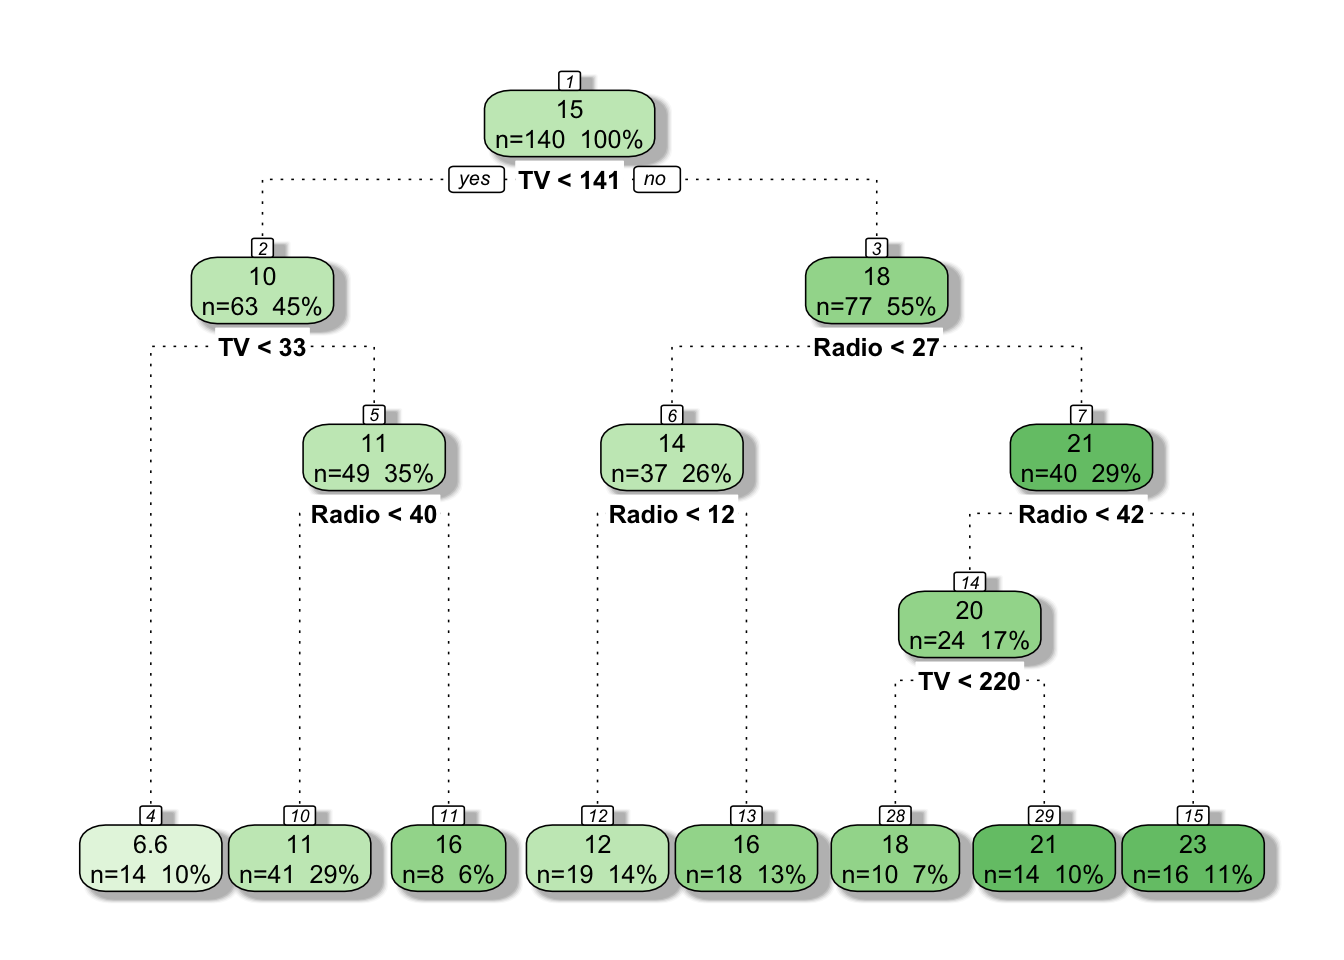
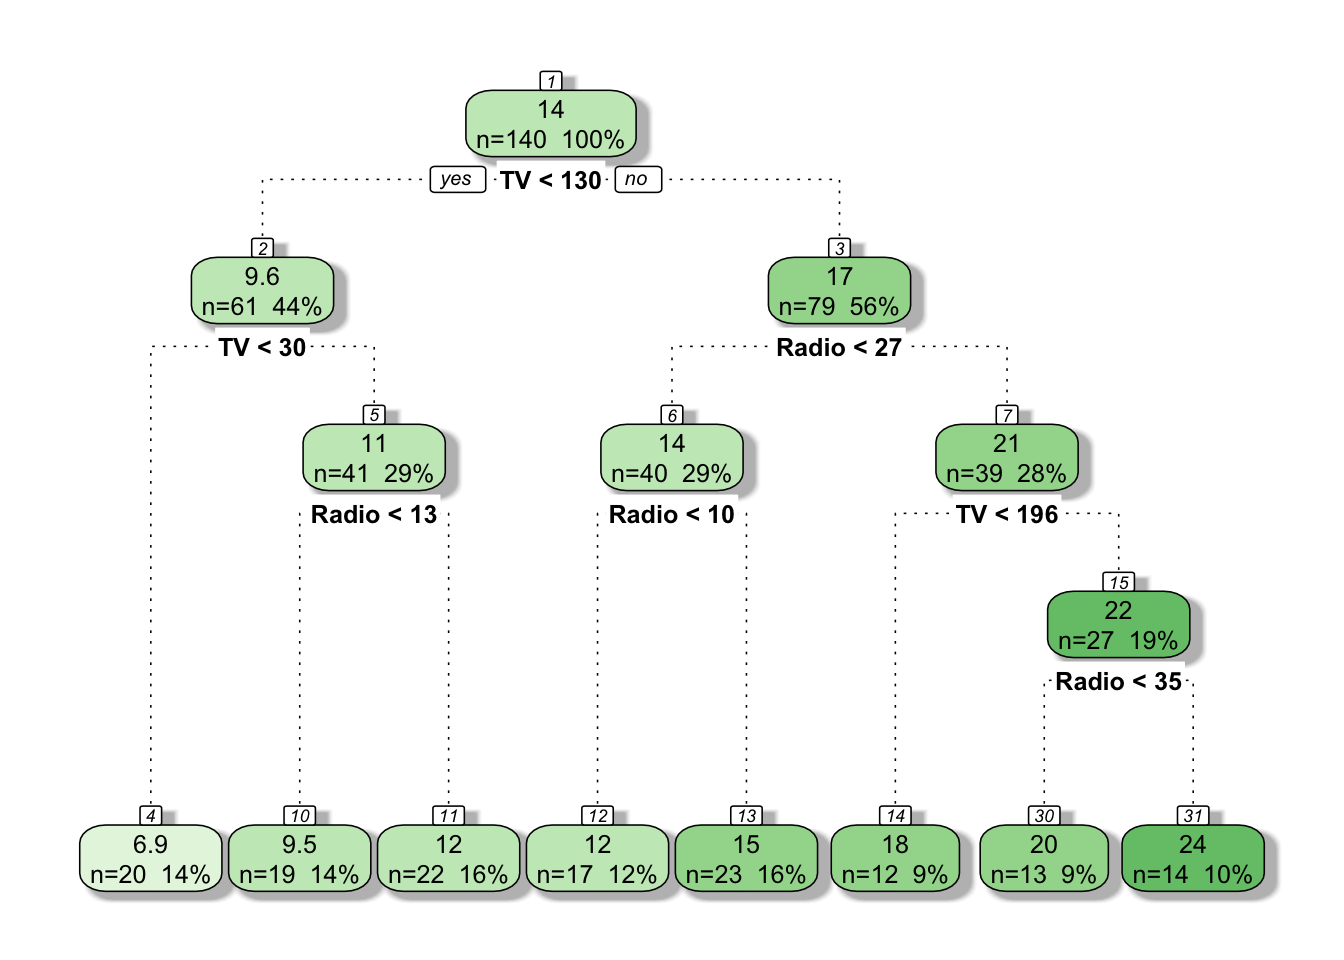
update installation

diff --git a/docs/install.html b/docs/install.html
@@ -348,6 +348,14 @@ $(document).ready(function () {
 </div>
 
 
+<div id="caution-before-you-start-the-following-steps-please-make-sure-you-have-already-installed" class="section level3">
+<h3><strong>Caution</strong>: Before you start the following steps, please make sure you have already installed</h3>
+<ul>
+<li><a href="http://www.oracle.com/technetwork/java/javase/downloads/index-jsp-138363.html">Java JDK</a></li>
+<li><a href="https://ipython.org/install.html">Ipython and python</a></li>
+<li>If you use this method to install the Spark, you can skip the <a href="pyspark-on-jupyter.html">Spark on Jupyter section</a></li>
+</ul>
+</div>
 <div id="download-apache-spark-from-the-official-website" class="section level3">
 <h3>1. Download Apache Spark from the official website</h3>
 <p>Weblink: <a href="http://spark.apache.org/downloads.html">Download Apache Spark™</a></p>
@@ -381,8 +389,23 @@ findspark.init()</code></pre>
 </div>
 <div id="note" class="section level3">
 <h3>Note:</h3>
-<p>This will also help you to set up the <code>ipython notebook</code> or <code>Jupyter</code>. You may run the following code in terminal to double check it:</p>
-<pre class="python"><code>ipython notebook</code></pre>
+<ul>
+<li>This will also help you to set up the <code>ipython notebook</code> or <code>Jupyter</code>. You may run the following code in terminal to double check it:</li>
+</ul>
+<pre class="python"><code>jupyter notebook</code></pre>
+<ul>
+<li><p>If you PySpark still doesn’t work, you need to check your <code>.profile</code> or <code>bash_profile</code> and add the following path to it</p>
+<ul>
+<li>check <code>.profile</code> or <code>bash_profile</code> at terminal</li>
+<li>add the path to your <code>.profile</code> or <code>bash_profile</code></li>
+</ul></li>
+</ul>
+<pre class="bash"><code>vim ~/.profile</code></pre>
+<pre class="bash"><code># Added for Pyspark
+export SPARK_HOME=YOUR_PATH/apache-spark/libexec
+export PATH=$PATH:$SPARK_HOME/bin:$SPARK_HOME/sbin
+export PYSPARK_DRIVER_PYTHON=&quot;jupyter&quot;
+export PYSPARK_DRIVER_PYTHON_OPTS=&quot;notebook&quot;</code></pre>
 </div>
 
 <center>Copyright &copy; 2017 Ming Chen  & Wenqiang Feng. All rights reserved.</center>

diff --git a/docs/dttreeR.html b/docs/dttreeR.html
@@ -556,7 +556,7 @@ test  = splited$test</code></pre>
 </ul>
 <pre class="r"><code>RMSE &lt;- sqrt(mean((test$Sales-Prediction )^2))
 RMSE</code></pre>
-<pre><code>## [1] 1.931328</code></pre>
+<pre><code>## [1] 1.77065</code></pre>
 </div>
 
 <center>Copyright &copy; 2017 Ming Chen  & Wenqiang Feng. All rights reserved.</center>
